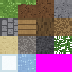
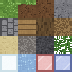
feat: coloured glass and a separate liquid layer (M4 slice 4)
Split the transparent layer: water is now RenderLayer::Liquid, glass stays
Transparent, and the blended pass draws liquid before transparent so glass
over water composites in a defined order (PLAN.md 5.4 glass-water rule).
SectionMesh / ChunkRenderMesh carry four layers.

Add glass_red and glass_blue stained-glass blocks (atlas tiles 14/15, both
full now) with tinted textures, in the palette and a checkerboard window
in the spawn showcase.

PC: 3/3 tests (water -> liquid, glass + stained glass -> transparent).
Switch: local .nro OK, same 49663 quads as PC, verified in Yuzu.

Changed region(s): [[0.5, 0.75, 1.0, 1.0]]

diff --git a/src/app/main.cpp b/src/app/main.cpp
@@ -46,9 +46,10 @@ constexpr double kMeshBudgetMs = 4.0;  // time spent (re)meshing per frame
 
 constexpr float kReach = 5.0F;
 constexpr voxelgame::BlockId kPalette[] = {
-    voxelgame::blocks::Grass,  voxelgame::blocks::Dirt,   voxelgame::blocks::Stone,
-    voxelgame::blocks::Cobblestone, voxelgame::blocks::Planks, voxelgame::blocks::Wood,
-    voxelgame::blocks::Sand,   voxelgame::blocks::Glass,  voxelgame::blocks::GlassPane,
+    voxelgame::blocks::Grass,     voxelgame::blocks::Dirt,      voxelgame::blocks::Stone,
+    voxelgame::blocks::Cobblestone, voxelgame::blocks::Planks,   voxelgame::blocks::Wood,
+    voxelgame::blocks::Sand,      voxelgame::blocks::Glass,     voxelgame::blocks::GlassPane,
+    voxelgame::blocks::GlassRed,  voxelgame::blocks::GlassBlue,
 };
 constexpr int kPaletteCount = static_cast<int>(sizeof(kPalette) / sizeof(kPalette[0]));
 
@@ -95,9 +96,14 @@ voxelgame::PlayerBody SpawnPlayer(voxelgame::World& world, const int chunkX, con
 void BuildShowcase(voxelgame::World& world, const int baseX, const int baseZ) {
     using namespace voxelgame;
     const int gy = SurfaceY(world, baseX, baseZ) + 1;
-    for (int dy = 0; dy < 3; ++dy) {
-        for (int dx = 0; dx < 4; ++dx) {
-            world.SetBlock(baseX + dx, gy + dy, baseZ + 6, blocks::Glass);
+    for (int dy = 0; dy < 4; ++dy) {
+        for (int dx = 0; dx < 6; ++dx) {
+            // A stained-glass window: clear border, red/blue centre.
+            BlockId b = blocks::Glass;
+            if (dy >= 1 && dy <= 2 && dx >= 1 && dx <= 4) {
+                b = (dx + dy) % 2 == 0 ? blocks::GlassRed : blocks::GlassBlue;
+            }
+            world.SetBlock(baseX + dx, gy + dy, baseZ + 6, b);
             world.SetBlock(baseX + dx, gy + dy, baseZ + 3, blocks::GlassPane);
         }
     }
@@ -522,28 +528,32 @@ int main(int argc, char* argv[]) {
                 for (std::size_t k = 0; k < visible.size(); ++k) {
                     visible[k]->DrawLayer(visiblePos[k], voxelgame::RenderLayer::Cutout);
                 }
-                // Pass 3: transparent -- blended, depth test on, depth write off,
-                // sections drawn back-to-front so overlapping panes composite right.
+                // Passes 3 & 4: liquid (water) then transparent (glass), both
+                // blended with depth write off and sections drawn back-to-front.
+                // Water first so glass over water composites correctly.
                 voxelgame::SetTilingShaderAlphaCutoff(tilingShader, 0.0F);
-                std::vector<std::size_t> order;
-                for (std::size_t k = 0; k < visible.size(); ++k) {
-                    if (visible[k]->HasLayer(voxelgame::RenderLayer::Transparent)) {
-                        order.push_back(k);
-                    }
-                }
                 const auto distSq = [&](const std::size_t k) {
                     const float cx = visiblePos[k].x + 8.0F - camera.position.x;
                     const float cy = visiblePos[k].y + 8.0F - camera.position.y;
                     const float cz = visiblePos[k].z + 8.0F - camera.position.z;
                     return cx * cx + cy * cy + cz * cz;
                 };
-                std::sort(order.begin(), order.end(),
-                          [&](std::size_t a, std::size_t b) { return distSq(a) > distSq(b); });
                 rlDrawRenderBatchActive();
                 rlDisableDepthMask();
                 BeginBlendMode(BLEND_ALPHA);
-                for (const std::size_t k : order) {
-                    visible[k]->DrawLayer(visiblePos[k], voxelgame::RenderLayer::Transparent);
+                for (const voxelgame::RenderLayer blendedLayer :
+                     {voxelgame::RenderLayer::Liquid, voxelgame::RenderLayer::Transparent}) {
+                    std::vector<std::size_t> order;
+                    for (std::size_t k = 0; k < visible.size(); ++k) {
+                        if (visible[k]->HasLayer(blendedLayer)) {
+                            order.push_back(k);
+                        }
+                    }
+                    std::sort(order.begin(), order.end(),
+                              [&](std::size_t a, std::size_t b) { return distSq(a) > distSq(b); });
+                    for (const std::size_t k : order) {
+                        visible[k]->DrawLayer(visiblePos[k], blendedLayer);
+                    }
                 }
                 EndBlendMode();
                 rlDrawRenderBatchActive();

diff --git a/src/render/ChunkRenderMesh.cpp b/src/render/ChunkRenderMesh.cpp
@@ -1,4 +1,4 @@
-#include "render/ChunkRenderMesh.hpp"
+#include "render/ChunkRenderMesh.hpp"
 
 #include <rlgl.h>
 
@@ -62,7 +62,7 @@ ChunkRenderMesh::~ChunkRenderMesh() {
 }
 
 ChunkRenderMesh::ChunkRenderMesh(ChunkRenderMesh&& other) noexcept {
-    for (int i = 0; i < 3; ++i) {
+    for (int i = 0; i < kRenderLayerCount; ++i) {
         models_[i] = other.models_[i];
         ready_[i] = other.ready_[i];
         other.models_[i] = Model{};
@@ -73,7 +73,7 @@ ChunkRenderMesh::ChunkRenderMesh(ChunkRenderMesh&& other) noexcept {
 ChunkRenderMesh& ChunkRenderMesh::operator=(ChunkRenderMesh&& other) noexcept {
     if (this != &other) {
         Unload();
-        for (int i = 0; i < 3; ++i) {
+        for (int i = 0; i < kRenderLayerCount; ++i) {
             models_[i] = other.models_[i];
             ready_[i] = other.ready_[i];
             other.models_[i] = Model{};
@@ -86,7 +86,7 @@ ChunkRenderMesh& ChunkRenderMesh::operator=(ChunkRenderMesh&& other) noexcept {
 bool ChunkRenderMesh::Upload(const SectionMesh& data, const Texture2D atlas, const Shader shader) {
     Unload();
     bool ok = true;
-    for (int i = 0; i < 3; ++i) {
+    for (int i = 0; i < kRenderLayerCount; ++i) {
         const MeshData& layer = data.layers[static_cast<std::size_t>(i)];
         if (layer.Empty()) {
             continue;
@@ -117,7 +117,7 @@ void ChunkRenderMesh::DropRefs(Model& model) noexcept {
 }
 
 void ChunkRenderMesh::Unload() noexcept {
-    for (int i = 0; i < 3; ++i) {
+    for (int i = 0; i < kRenderLayerCount; ++i) {
         if (ready_[i]) {
             DropRefs(models_[i]);
             UnloadModel(models_[i]);

diff --git a/src/render/BlockAtlas.cpp b/src/render/BlockAtlas.cpp
@@ -188,6 +188,18 @@ Color GlassPixel(const int px, const int py) noexcept {
     return WithAlpha(c, 52);  // see-through body
 }
 
+Color StainedGlassPixel(const int px, const int py, const Color tint) noexcept {
+    const bool border = px == 0 || py == 0 || px == atlas::TileSize - 1 || py == atlas::TileSize - 1;
+    if (border) {
+        return WithAlpha(Mix(tint, Color{20, 20, 24, 255}, 0.35F), 210);
+    }
+    if (px + py == 6 || px + py == 7 || px + py == 22 || px + py == 23) {
+        return WithAlpha(Mix(tint, Color{255, 255, 255, 255}, 0.6F), 150);
+    }
+    Color c = Mix(tint, Color{255, 255, 255, 255}, 0.12F * NoiseAt(px, py, 710U));
+    return WithAlpha(c, 96);
+}
+
 Color WaterPixel(const int px, const int py) noexcept {
     // Horizontal wave bands from layered noise.
     const float wave = NoiseAt(px / 3, py, 700U) * 0.6F + NoiseAt(px, py / 5, 701U) * 0.4F;
@@ -228,6 +240,10 @@ Color PixelFor(const int tile, const int px, const int py) noexcept {
             return GlassPixel(px, py);
         case atlas::Tile::Water:
             return WaterPixel(px, py);
+        case atlas::Tile::GlassRed:
+            return StainedGlassPixel(px, py, Color{206, 74, 74, 255});
+        case atlas::Tile::GlassBlue:
+            return StainedGlassPixel(px, py, Color{78, 108, 206, 255});
         default:
             return Color{255, 0, 255, 255};
     }

diff --git a/tests/ChunkMesherTests.cpp b/tests/ChunkMesherTests.cpp
@@ -261,16 +261,20 @@ int main() {
         ExpectMesh(Opaque(mesher.Build(lone, defaultAtlas)), 6);  // isolation keeps six faces
     }
 
-    // Render layers: leaves route to cutout, glass/water to transparent, and two
-    // identical non-opaque blocks hide the face between them.
+    // Render layers: leaves -> cutout, glass -> transparent, water -> liquid,
+    // and identical non-opaque neighbours hide the face between them.
     {
         ChunkSection s;
         s.Set(4, 4, 4, blocks::Leaves);
         s.Set(6, 4, 4, blocks::Glass);
+        s.Set(8, 4, 4, blocks::Water);
+        s.Set(10, 4, 4, blocks::GlassRed);
         const SectionMesh m = mesher.Build(s, defaultAtlas);
         Expect(m.Layer(RenderLayer::Opaque).Empty(), "no opaque geometry here");
         Expect(m.Layer(RenderLayer::Cutout).quadCount == 6, "leaves -> 6 cutout faces");
-        Expect(m.Layer(RenderLayer::Transparent).quadCount == 6, "glass -> 6 transparent faces");
+        Expect(m.Layer(RenderLayer::Liquid).quadCount == 6, "water -> 6 liquid faces");
+        Expect(m.Layer(RenderLayer::Transparent).quadCount == 12,
+               "glass + stained glass -> 12 transparent faces");
 
         // Two glass blocks: the shared face is culled and the four coplanar
         // faces merge -> 6 quads, exactly like an opaque pair.

diff --git a/src/world/ChunkMesher.hpp b/src/world/ChunkMesher.hpp
@@ -12,10 +12,9 @@ namespace voxelgame {
 
 class World;
 
-// One section's geometry split by render layer (opaque / cutout / transparent),
-// indexed by RenderLayer.
+// One section's geometry split by render layer, indexed by RenderLayer.
 struct SectionMesh {
-    std::array<MeshData, 3> layers;
+    std::array<MeshData, kRenderLayerCount> layers;
 
     [[nodiscard]] MeshData& Layer(RenderLayer layer) noexcept {
         return layers[static_cast<std::size_t>(layer)];
@@ -24,10 +23,19 @@ struct SectionMesh {
         return layers[static_cast<std::size_t>(layer)];
     }
     [[nodiscard]] bool Empty() const noexcept {
-        return layers[0].Empty() && layers[1].Empty() && layers[2].Empty();
+        for (const MeshData& layer : layers) {
+            if (!layer.Empty()) {
+                return false;
+            }
+        }
+        return true;
     }
     [[nodiscard]] std::size_t QuadCount() const noexcept {
-        return layers[0].quadCount + layers[1].quadCount + layers[2].quadCount;
+        std::size_t total = 0;
+        for (const MeshData& layer : layers) {
+            total += layer.quadCount;
+        }
+        return total;
     }
 };
 

diff --git a/src/world/Block.hpp b/src/world/Block.hpp
@@ -8,11 +8,15 @@ namespace voxelgame {
 
 using BlockId = std::uint16_t;
 
+// Render order: opaque -> cutout -> liquid -> transparent. Liquid (water) draws
+// before transparent (glass) so glass over water composites correctly.
 enum class RenderLayer : std::uint8_t {
     Opaque,
     Cutout,
+    Liquid,
     Transparent,
 };
+inline constexpr int kRenderLayerCount = 4;
 
 enum class BlockShape : std::uint8_t {
     Cube,  // full 1x1x1 cube, greedy-meshed
@@ -55,7 +59,9 @@ inline constexpr BlockId Leaves = 10;
 inline constexpr BlockId Glass = 11;
 inline constexpr BlockId Water = 12;
 inline constexpr BlockId GlassPane = 13;
-inline constexpr BlockId Count = 14;
+inline constexpr BlockId GlassRed = 14;
+inline constexpr BlockId GlassBlue = 15;
+inline constexpr BlockId Count = 16;
 }  // namespace blocks
 
 [[nodiscard]] const BlockDefinition& GetBlockDefinition(BlockId block) noexcept;

diff --git a/src/world/Block.cpp b/src/world/Block.cpp
@@ -42,10 +42,14 @@ constexpr std::array<BlockDefinition, blocks::Count> definitions{{
      AllFaces(Tile::Leaves)},
     {"glass", true, true, RenderLayer::Transparent, S::Cube, {198, 226, 236, 128},
      AllFaces(Tile::Glass)},
-    {"water", true, false, RenderLayer::Transparent, S::Cube, {60, 110, 190, 150},
+    {"water", true, false, RenderLayer::Liquid, S::Cube, {60, 110, 190, 150},
      AllFaces(Tile::Water)},
     {"glass_pane", true, true, RenderLayer::Transparent, S::Pane, {198, 226, 236, 128},
      AllFaces(Tile::Glass)},
+    {"glass_red", true, true, RenderLayer::Transparent, S::Cube, {210, 90, 90, 150},
+     AllFaces(Tile::GlassRed)},
+    {"glass_blue", true, true, RenderLayer::Transparent, S::Cube, {90, 120, 210, 150},
+     AllFaces(Tile::GlassBlue)},
 }};
 
 constexpr BlockDefinition unknownDefinition{

diff --git a/src/render/ChunkRenderMesh.hpp b/src/render/ChunkRenderMesh.hpp
@@ -28,8 +28,8 @@ private:
     void Unload() noexcept;
     static void DropRefs(Model& model) noexcept;
 
-    Model models_[3]{};
-    bool ready_[3]{};
+    Model models_[kRenderLayerCount]{};
+    bool ready_[kRenderLayerCount]{};
 };
 
 }  // namespace voxelgame

diff --git a/src/world/BlockAtlasLayout.hpp b/src/world/BlockAtlasLayout.hpp
@@ -34,6 +34,8 @@ enum Tile : std::uint8_t {
     Leaves = 11,
     Glass = 12,
     Water = 13,
+    GlassRed = 14,
+    GlassBlue = 15,
 };
 
 // Normalised content rectangle of a tile within the atlas (inside its gutter).

diff --git a/assets/atlases/README.md b/assets/atlases/README.md
@@ -21,7 +21,7 @@ grid and which tile each block face uses. The engine loads `atlases/blocks.json`
     "grass_top": [0, 0], "grass_side": [1, 0], "dirt": [2, 0], "stone": [3, 0],
     "cobblestone": [0, 1], "planks": [1, 1], "wood_side": [2, 1], "wood_top": [3, 1],
     "sand": [0, 2], "gravel": [1, 2], "bedrock": [2, 2], "leaves": [3, 2],
-    "glass": [0, 3], "water": [1, 3]
+    "glass": [0, 3], "water": [1, 3], "glass_red": [2, 3], "glass_blue": [3, 3]
   },
   "blocks": {                     // block name (from the registry) -> faces
     "grass": { "top": "grass_top", "bottom": "dirt", "sides": "grass_side" },
